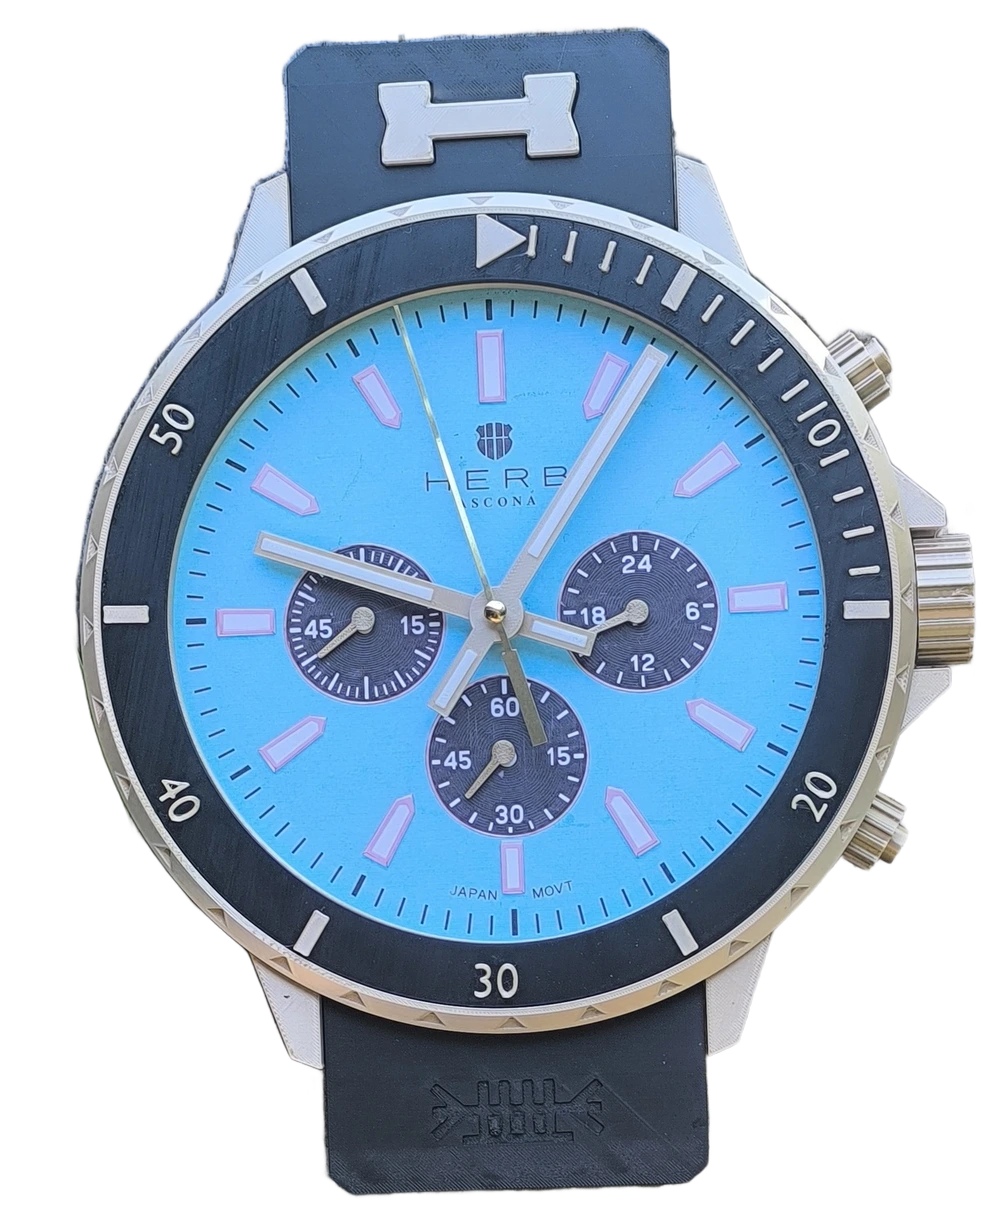
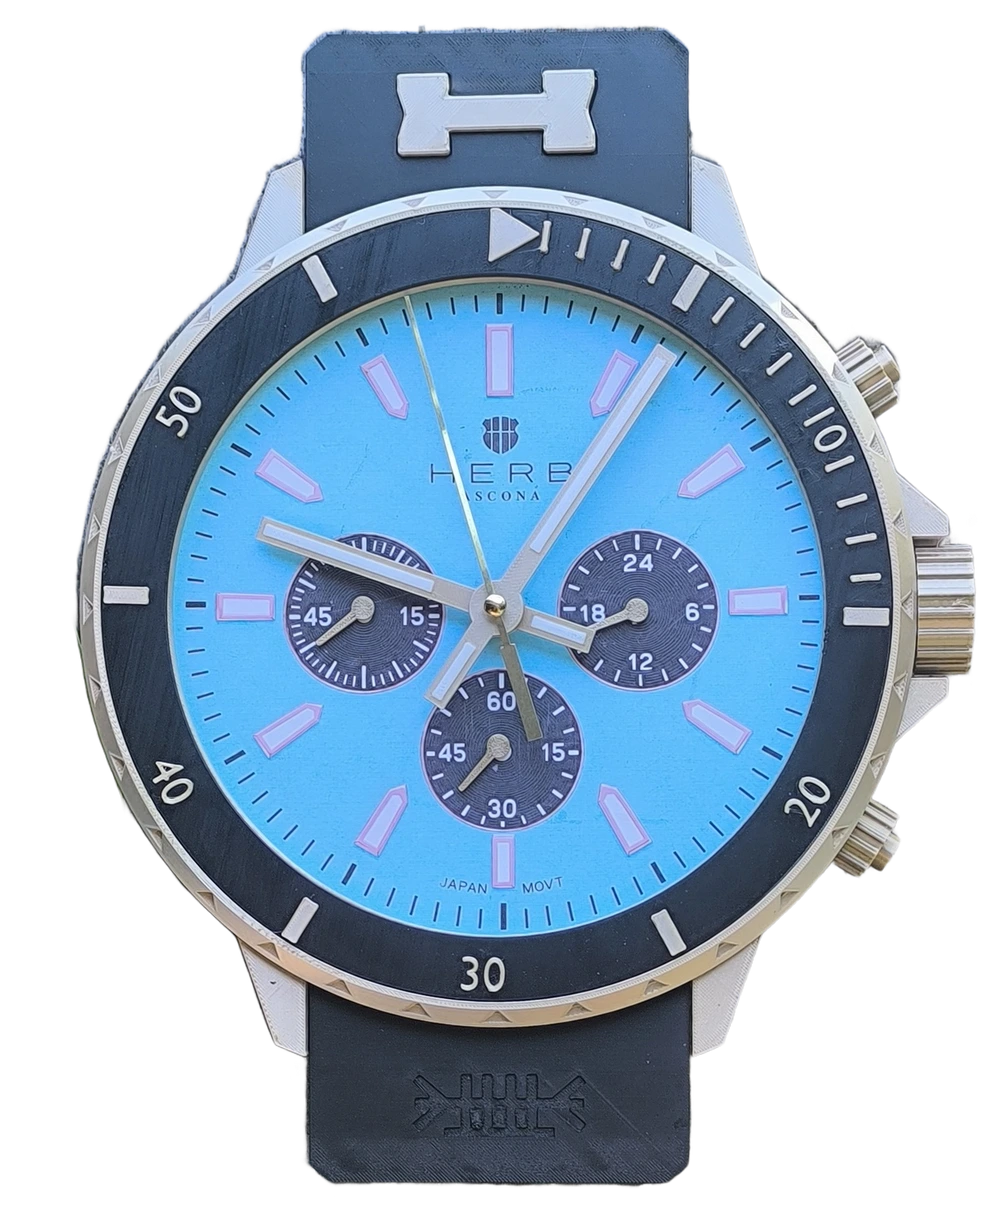
Straighten the watch cutouts and pin the hero watch to one position
- The tree-trunk product photos hang the watches up to ~3 degrees off
  vertical; each cutout is now rotated upright around its bezel center
  (strap axis vertical within 0.15 degrees) and re-exported, with ?v=2
  on the changed webp references to bypass the 30-day media cache
- All six hero dial buttons now share the same bezel position
  (73.76% / 48.66%), so the watch stays pinned while the scenery
  crossfades

Changed region(s): [[0.062, 0.0, 0.992, 0.9809]]

diff --git a/site/index.html b/site/index.html
@@ -65,11 +65,11 @@ header>div{padding:14px 20px !important}
     <div class="herb-hero-dots" style="position: absolute; left: 0; right: 0; bottom: 22px; z-index: 9002; display: flex; justify-content: center">
       <div style="display: flex; gap: 10px; padding: 8px 12px; background: rgba(252,251,249,.9); border: 1px solid #E6E1D6; border-radius: 999px">
         <button type="button" data-bg="assets/hero_st_tropez_bg.jpg" data-watch="assets/watch_st_tropez.webp" data-cx="0.7376" data-cy="0.4866" data-wf="0.197" data-loc="St.&nbsp;Tropez &ndash; C&ocirc;te d&rsquo;Azur" data-walt="Salitos St. Tropez Wanduhr mit orangefarbenem Silikonband an einer sonnenbeschienenen Wand, dahinter der Hafen von Saint-Tropez" aria-label="St. Tropez zeigen" style="width: 44px; height: 44px; padding: 2px; border-radius: 50%; border: 2px solid #AB8C52; background: #FFFFFF; cursor: pointer"><img src="assets/dial_st_tropez.jpg" alt="" style="display: block; width: 100%; height: 100%; border-radius: 50%"></button>
-        <button type="button" data-bg="assets/hero_ibiza_bg.jpg" data-watch="assets/watch_ibiza.webp" data-cx="0.7216" data-cy="0.5125" data-wf="0.197" data-loc="Ibiza &ndash; Balearen" data-walt="Salitos Ibiza Wanduhr mit t&uuml;rkisem Zifferblatt an einer wei&szlig;en Finca-Wand &uuml;ber einer Bucht auf Ibiza" aria-label="Ibiza zeigen" style="width: 44px; height: 44px; padding: 2px; border-radius: 50%; border: 2px solid transparent; background: #FFFFFF; cursor: pointer"><img src="assets/dial_ibiza.jpg" alt="" style="display: block; width: 100%; height: 100%; border-radius: 50%"></button>
-        <button type="button" data-bg="assets/hero_dubai_marina_bg.jpg" data-watch="assets/watch_dubai_marina.webp" data-cx="0.7302" data-cy="0.4936" data-wf="0.197" data-loc="Dubai Marina" data-walt="Salitos Dubai Marina Wanduhr mit schwarzem Zifferblatt in einem Penthouse mit Blick auf die Dubai Marina" aria-label="Dubai Marina zeigen" style="width: 44px; height: 44px; padding: 2px; border-radius: 50%; border: 2px solid transparent; background: #FFFFFF; cursor: pointer"><img src="assets/dial_dubai_marina.jpg" alt="" style="display: block; width: 100%; height: 100%; border-radius: 50%"></button>
-        <button type="button" data-bg="assets/hero_st_barth_bg.jpg" data-watch="assets/watch_st_barth.webp" data-cx="0.7143" data-cy="0.5040" data-wf="0.197" data-loc="St.&nbsp;Barth &ndash; Karibik" data-walt="Salitos St. Barth Wanduhr mit rotem Zifferblatt auf einer Veranda &uuml;ber einer Karibikbucht" aria-label="St. Barth zeigen" style="width: 44px; height: 44px; padding: 2px; border-radius: 50%; border: 2px solid transparent; background: #FFFFFF; cursor: pointer"><img src="assets/dial_st_barth.jpg" alt="" style="display: block; width: 100%; height: 100%; border-radius: 50%"></button>
-        <button type="button" data-bg="assets/hero_ascona_blue_bg.jpg" data-watch="assets/watch_ascona_blue.webp" data-cx="0.7034" data-cy="0.4925" data-wf="0.197" data-loc="Ascona &ndash; Lago Maggiore" data-walt="Ascona Wanduhr mit mintfarbenem Zifferblatt in einer Loggia am Lago Maggiore" aria-label="Ascona Blue zeigen" style="width: 44px; height: 44px; padding: 2px; border-radius: 50%; border: 2px solid transparent; background: #FFFFFF; cursor: pointer"><img src="assets/dial_ascona_blue.jpg" alt="" style="display: block; width: 100%; height: 100%; border-radius: 50%"></button>
-        <button type="button" data-bg="assets/hero_ascona_white_bg.jpg" data-watch="assets/watch_ascona_white.webp" data-cx="0.7189" data-cy="0.5191" data-wf="0.197" data-loc="Ascona &ndash; Lago Maggiore" data-walt="Ascona Wanduhr mit wei&szlig;em Zifferblatt in einem Salon mit Blick auf die Seepromenade von Ascona" aria-label="Ascona White zeigen" style="width: 44px; height: 44px; padding: 2px; border-radius: 50%; border: 2px solid transparent; background: #FFFFFF; cursor: pointer"><img src="assets/dial_ascona_white.jpg" alt="" style="display: block; width: 100%; height: 100%; border-radius: 50%"></button>
+        <button type="button" data-bg="assets/hero_ibiza_bg.jpg" data-watch="assets/watch_ibiza.webp?v=2" data-cx="0.7376" data-cy="0.4866" data-wf="0.197" data-loc="Ibiza &ndash; Balearen" data-walt="Salitos Ibiza Wanduhr mit t&uuml;rkisem Zifferblatt an einer wei&szlig;en Finca-Wand &uuml;ber einer Bucht auf Ibiza" aria-label="Ibiza zeigen" style="width: 44px; height: 44px; padding: 2px; border-radius: 50%; border: 2px solid transparent; background: #FFFFFF; cursor: pointer"><img src="assets/dial_ibiza.jpg" alt="" style="display: block; width: 100%; height: 100%; border-radius: 50%"></button>
+        <button type="button" data-bg="assets/hero_dubai_marina_bg.jpg" data-watch="assets/watch_dubai_marina.webp?v=2" data-cx="0.7376" data-cy="0.4866" data-wf="0.197" data-loc="Dubai Marina" data-walt="Salitos Dubai Marina Wanduhr mit schwarzem Zifferblatt in einem Penthouse mit Blick auf die Dubai Marina" aria-label="Dubai Marina zeigen" style="width: 44px; height: 44px; padding: 2px; border-radius: 50%; border: 2px solid transparent; background: #FFFFFF; cursor: pointer"><img src="assets/dial_dubai_marina.jpg" alt="" style="display: block; width: 100%; height: 100%; border-radius: 50%"></button>
+        <button type="button" data-bg="assets/hero_st_barth_bg.jpg" data-watch="assets/watch_st_barth.webp?v=2" data-cx="0.7376" data-cy="0.4866" data-wf="0.197" data-loc="St.&nbsp;Barth &ndash; Karibik" data-walt="Salitos St. Barth Wanduhr mit rotem Zifferblatt auf einer Veranda &uuml;ber einer Karibikbucht" aria-label="St. Barth zeigen" style="width: 44px; height: 44px; padding: 2px; border-radius: 50%; border: 2px solid transparent; background: #FFFFFF; cursor: pointer"><img src="assets/dial_st_barth.jpg" alt="" style="display: block; width: 100%; height: 100%; border-radius: 50%"></button>
+        <button type="button" data-bg="assets/hero_ascona_blue_bg.jpg" data-watch="assets/watch_ascona_blue.webp?v=2" data-cx="0.7376" data-cy="0.4866" data-wf="0.197" data-loc="Ascona &ndash; Lago Maggiore" data-walt="Ascona Wanduhr mit mintfarbenem Zifferblatt in einer Loggia am Lago Maggiore" aria-label="Ascona Blue zeigen" style="width: 44px; height: 44px; padding: 2px; border-radius: 50%; border: 2px solid transparent; background: #FFFFFF; cursor: pointer"><img src="assets/dial_ascona_blue.jpg" alt="" style="display: block; width: 100%; height: 100%; border-radius: 50%"></button>
+        <button type="button" data-bg="assets/hero_ascona_white_bg.jpg" data-watch="assets/watch_ascona_white.webp?v=2" data-cx="0.7376" data-cy="0.4866" data-wf="0.197" data-loc="Ascona &ndash; Lago Maggiore" data-walt="Ascona Wanduhr mit wei&szlig;em Zifferblatt in einem Salon mit Blick auf die Seepromenade von Ascona" aria-label="Ascona White zeigen" style="width: 44px; height: 44px; padding: 2px; border-radius: 50%; border: 2px solid transparent; background: #FFFFFF; cursor: pointer"><img src="assets/dial_ascona_white.jpg" alt="" style="display: block; width: 100%; height: 100%; border-radius: 50%"></button>
       </div>
     </div>
     </div>
@@ -176,7 +176,7 @@ header>div{padding:14px 20px !important}
       <figure style="flex: 1 1 300px; max-width: 392px; margin: 0; display: flex; flex-direction: column; gap: 14px">
         <div style="position: relative; overflow: hidden; border-radius: 2px">
           <img src="assets/galerie_st_tropez_bg.jpg" alt="" style="display: block; width: 100%; height: auto">
-          <img src="assets/watch_st_tropez_gelb.webp" alt="Salitos St. Tropez Wanduhr mit gelbem Silikonband an einer sonnenbeschienenen mediterranen Wand" style="position: absolute; left: 53.9%; top: 39.5%; width: 52%; transform: translate(-50%, -50%)">
+          <img src="assets/watch_st_tropez_gelb.webp?v=2" alt="Salitos St. Tropez Wanduhr mit gelbem Silikonband an einer sonnenbeschienenen mediterranen Wand" style="position: absolute; left: 53.9%; top: 39.5%; width: 52%; transform: translate(-50%, -50%)">
         </div>
         <figcaption style="display: flex; flex-direction: column; gap: 3px">
           <span style="font-size: 15.5px; font-weight: 500">St. Tropez</span>
@@ -186,7 +186,7 @@ header>div{padding:14px 20px !important}
       <figure style="flex: 1 1 300px; max-width: 392px; margin: 0; display: flex; flex-direction: column; gap: 14px">
         <div style="position: relative; overflow: hidden; border-radius: 2px">
           <img src="assets/galerie_st_tropez_bg.jpg" alt="" style="display: block; width: 100%; height: auto">
-          <img src="assets/watch_st_tropez_grau.webp" alt="Salitos St. Tropez Wanduhr mit grauem Silikonband an einer sonnenbeschienenen mediterranen Wand" style="position: absolute; left: 53.9%; top: 39.5%; width: 52%; transform: translate(-50%, -50%)">
+          <img src="assets/watch_st_tropez_grau.webp?v=2" alt="Salitos St. Tropez Wanduhr mit grauem Silikonband an einer sonnenbeschienenen mediterranen Wand" style="position: absolute; left: 53.9%; top: 39.5%; width: 52%; transform: translate(-50%, -50%)">
         </div>
         <figcaption style="display: flex; flex-direction: column; gap: 3px">
           <span style="font-size: 15.5px; font-weight: 500">St. Tropez</span>
@@ -196,7 +196,7 @@ header>div{padding:14px 20px !important}
       <figure style="flex: 1 1 300px; max-width: 392px; margin: 0; display: flex; flex-direction: column; gap: 14px">
         <div style="position: relative; overflow: hidden; border-radius: 2px">
           <img src="assets/galerie_st_tropez_bg.jpg" alt="" style="display: block; width: 100%; height: auto">
-          <img src="assets/watch_st_tropez_glieder.webp" alt="Salitos St. Tropez Wanduhr mit Gliederband in Edelstahl-Optik an einer sonnenbeschienenen mediterranen Wand" style="position: absolute; left: 53.9%; top: 39.5%; width: 52%; transform: translate(-50%, -50%)">
+          <img src="assets/watch_st_tropez_glieder.webp?v=2" alt="Salitos St. Tropez Wanduhr mit Gliederband in Edelstahl-Optik an einer sonnenbeschienenen mediterranen Wand" style="position: absolute; left: 53.9%; top: 39.5%; width: 52%; transform: translate(-50%, -50%)">
         </div>
         <figcaption style="display: flex; flex-direction: column; gap: 3px">
           <span style="font-size: 15.5px; font-weight: 500">St. Tropez</span>
@@ -206,7 +206,7 @@ header>div{padding:14px 20px !important}
       <figure style="flex: 1 1 300px; max-width: 392px; margin: 0; display: flex; flex-direction: column; gap: 14px">
         <div style="position: relative; overflow: hidden; border-radius: 2px">
           <img src="assets/galerie_st_tropez_bg.jpg" alt="" style="display: block; width: 100%; height: auto">
-          <img src="assets/watch_ibiza.webp" alt="Salitos Ibiza Wanduhr mit t&uuml;rkisem Zifferblatt an einer sonnenbeschienenen mediterranen Wand" style="position: absolute; left: 53.9%; top: 39.5%; width: 52%; transform: translate(-50%, -50%)">
+          <img src="assets/watch_ibiza.webp?v=2" alt="Salitos Ibiza Wanduhr mit t&uuml;rkisem Zifferblatt an einer sonnenbeschienenen mediterranen Wand" style="position: absolute; left: 53.9%; top: 39.5%; width: 52%; transform: translate(-50%, -50%)">
         </div>
         <figcaption style="display: flex; flex-direction: column; gap: 3px">
           <span style="font-size: 15.5px; font-weight: 500">Ibiza</span>
@@ -216,7 +216,7 @@ header>div{padding:14px 20px !important}
       <figure style="flex: 1 1 300px; max-width: 392px; margin: 0; display: flex; flex-direction: column; gap: 14px">
         <div style="position: relative; overflow: hidden; border-radius: 2px">
           <img src="assets/galerie_st_tropez_bg.jpg" alt="" style="display: block; width: 100%; height: auto">
-          <img src="assets/watch_dubai_marina.webp" alt="Salitos Dubai Marina Wanduhr mit anthrazitfarbenem Zifferblatt an einer sonnenbeschienenen mediterranen Wand" style="position: absolute; left: 53.9%; top: 39.5%; width: 52%; transform: translate(-50%, -50%)">
+          <img src="assets/watch_dubai_marina.webp?v=2" alt="Salitos Dubai Marina Wanduhr mit anthrazitfarbenem Zifferblatt an einer sonnenbeschienenen mediterranen Wand" style="position: absolute; left: 53.9%; top: 39.5%; width: 52%; transform: translate(-50%, -50%)">
         </div>
         <figcaption style="display: flex; flex-direction: column; gap: 3px">
           <span style="font-size: 15.5px; font-weight: 500">Dubai Marina</span>
@@ -226,7 +226,7 @@ header>div{padding:14px 20px !important}
       <figure style="flex: 1 1 300px; max-width: 392px; margin: 0; display: flex; flex-direction: column; gap: 14px">
         <div style="position: relative; overflow: hidden; border-radius: 2px">
           <img src="assets/galerie_st_tropez_bg.jpg" alt="" style="display: block; width: 100%; height: auto">
-          <img src="assets/watch_st_barth.webp" alt="Salitos St. Barth Wanduhr mit rotem Zifferblatt an einer sonnenbeschienenen mediterranen Wand" style="position: absolute; left: 53.9%; top: 39.5%; width: 52%; transform: translate(-50%, -50%)">
+          <img src="assets/watch_st_barth.webp?v=2" alt="Salitos St. Barth Wanduhr mit rotem Zifferblatt an einer sonnenbeschienenen mediterranen Wand" style="position: absolute; left: 53.9%; top: 39.5%; width: 52%; transform: translate(-50%, -50%)">
         </div>
         <figcaption style="display: flex; flex-direction: column; gap: 3px">
           <span style="font-size: 15.5px; font-weight: 500">St. Barth</span>
@@ -236,7 +236,7 @@ header>div{padding:14px 20px !important}
       <figure style="flex: 1 1 300px; max-width: 392px; margin: 0; display: flex; flex-direction: column; gap: 14px">
         <div style="position: relative; overflow: hidden; border-radius: 2px">
           <img src="assets/galerie_st_tropez_bg.jpg" alt="" style="display: block; width: 100%; height: auto">
-          <img src="assets/watch_ascona_blue.webp" alt="Ascona Blue Wanduhr mit mintfarbenem Zifferblatt an einer sonnenbeschienenen mediterranen Wand" style="position: absolute; left: 53.9%; top: 39.5%; width: 52%; transform: translate(-50%, -50%)">
+          <img src="assets/watch_ascona_blue.webp?v=2" alt="Ascona Blue Wanduhr mit mintfarbenem Zifferblatt an einer sonnenbeschienenen mediterranen Wand" style="position: absolute; left: 53.9%; top: 39.5%; width: 52%; transform: translate(-50%, -50%)">
         </div>
         <figcaption style="display: flex; flex-direction: column; gap: 3px">
           <span style="font-size: 15.5px; font-weight: 500">Ascona Blue</span>
@@ -246,7 +246,7 @@ header>div{padding:14px 20px !important}
       <figure style="flex: 1 1 300px; max-width: 392px; margin: 0; display: flex; flex-direction: column; gap: 14px">
         <div style="position: relative; overflow: hidden; border-radius: 2px">
           <img src="assets/galerie_st_tropez_bg.jpg" alt="" style="display: block; width: 100%; height: auto">
-          <img src="assets/watch_ascona_white.webp" alt="Ascona White Wanduhr mit wei&szlig;em Zifferblatt an einer sonnenbeschienenen mediterranen Wand" style="position: absolute; left: 53.9%; top: 39.5%; width: 52%; transform: translate(-50%, -50%)">
+          <img src="assets/watch_ascona_white.webp?v=2" alt="Ascona White Wanduhr mit wei&szlig;em Zifferblatt an einer sonnenbeschienenen mediterranen Wand" style="position: absolute; left: 53.9%; top: 39.5%; width: 52%; transform: translate(-50%, -50%)">
         </div>
         <figcaption style="display: flex; flex-direction: column; gap: 3px">
           <span style="font-size: 15.5px; font-weight: 500">Ascona White</span>
